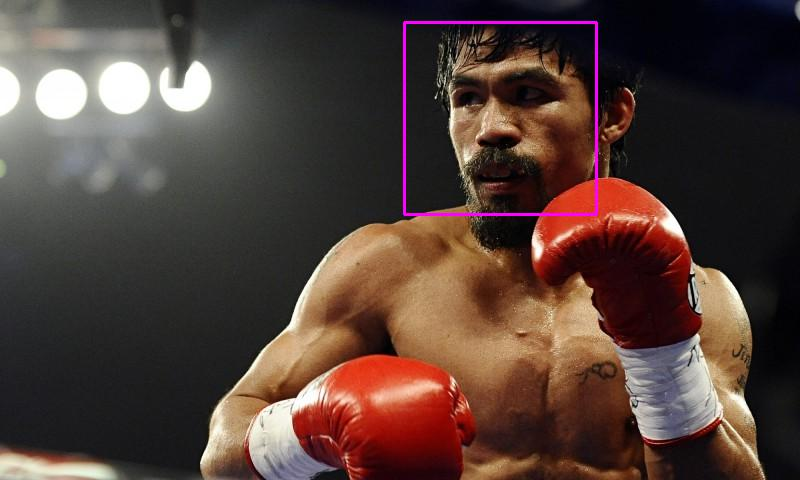
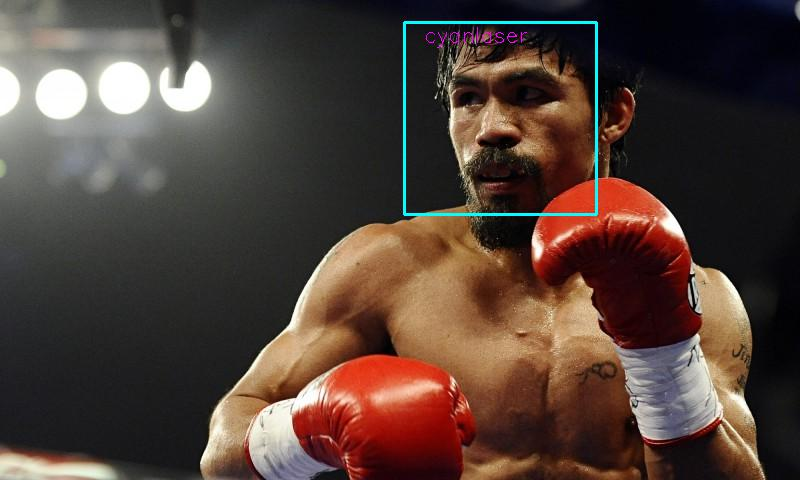
refine demo.

Changed region(s): [[0.5, 0.0312, 0.75, 0.4688]]

diff --git a/week2/face.py b/week2/face.py
@@ -1,8 +1,8 @@
 import argparse
 
 import cv2
-import numpy as np
 import matplotlib.pyplot as plt
+import numpy as np
 from PIL import Image
 
 
@@ -22,11 +22,13 @@ class FaceDetector(object):
         return self.forward(image)
 
 
-def draw_bboxes(image, bboxes):
+def draw_bboxes(image, bboxes, text='cyanlaser'):
     """draw bboxes into image."""
     for bbox in bboxes:
         x, y, w, h = bbox
-        image = cv2.rectangle(image, (x, y), (x + w, y + h), (255, 2, 255), 2)
+        image = cv2.rectangle(image, (x, y), (x + w, y + h), (2, 255, 255), 2)
+        image = cv2.putText(image, text, (x + 20, y + 20),
+                            cv2.FONT_HERSHEY_SIMPLEX, 0.7, (255, 2, 255), 1)
 
     return image
 
@@ -52,7 +54,7 @@ def imshow(image, backend='pillow'):
 
 
 def imwrite(image, save_path, backend='pillow'):
-    """backend agnostic image write
+    """backend agnostic image write.
 
     Args:
         image (numpy.ndarry): The image needs to save.
